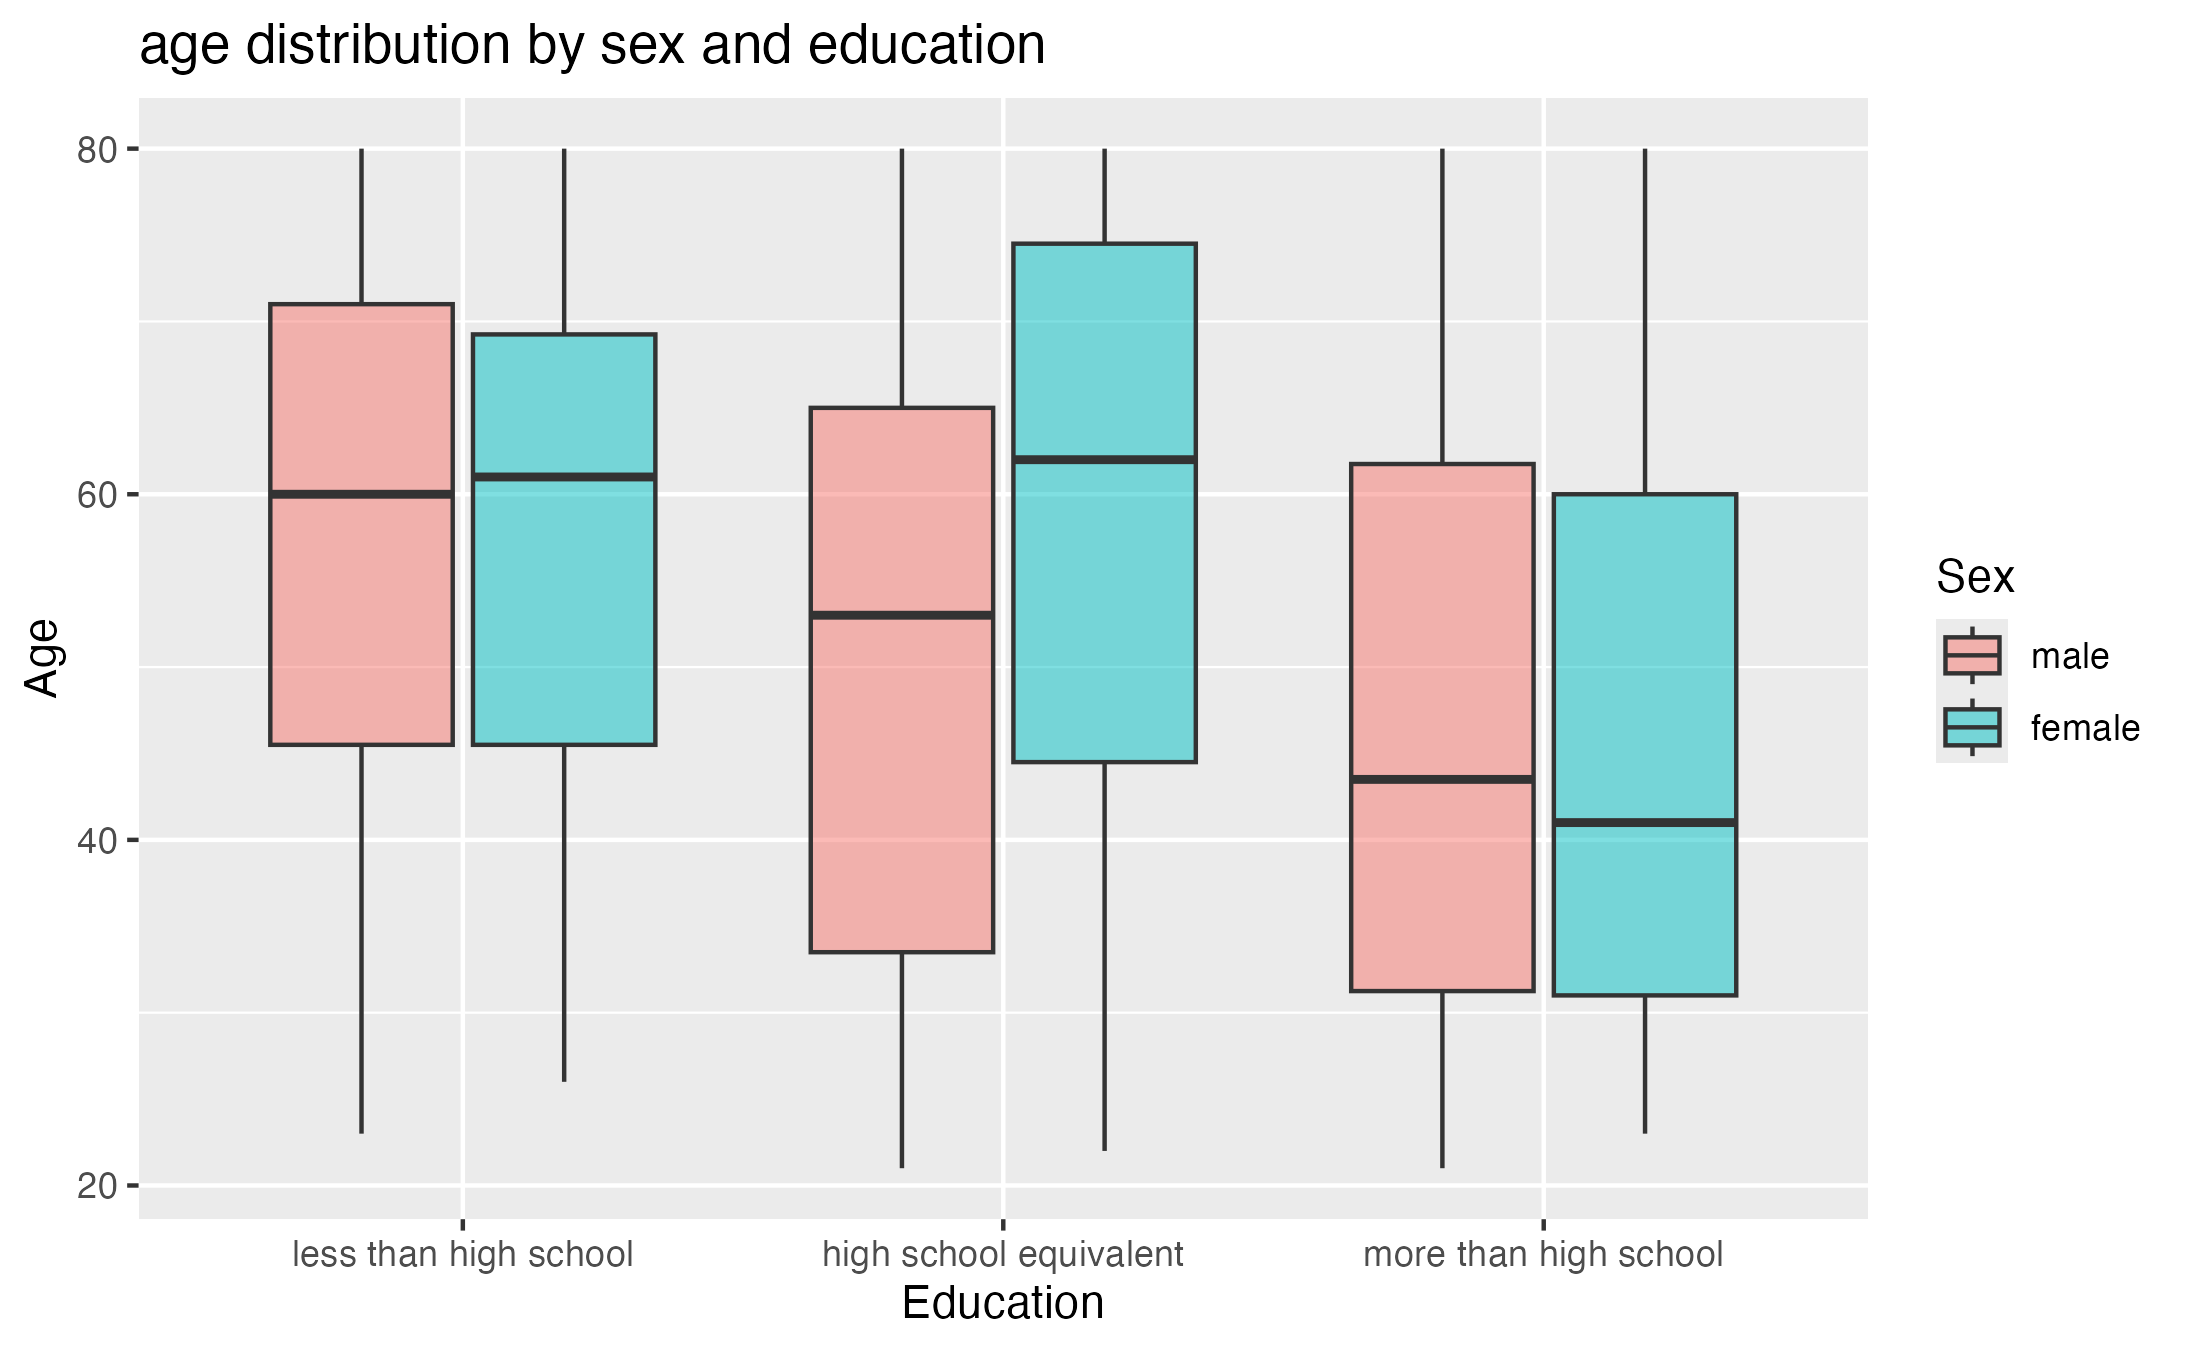
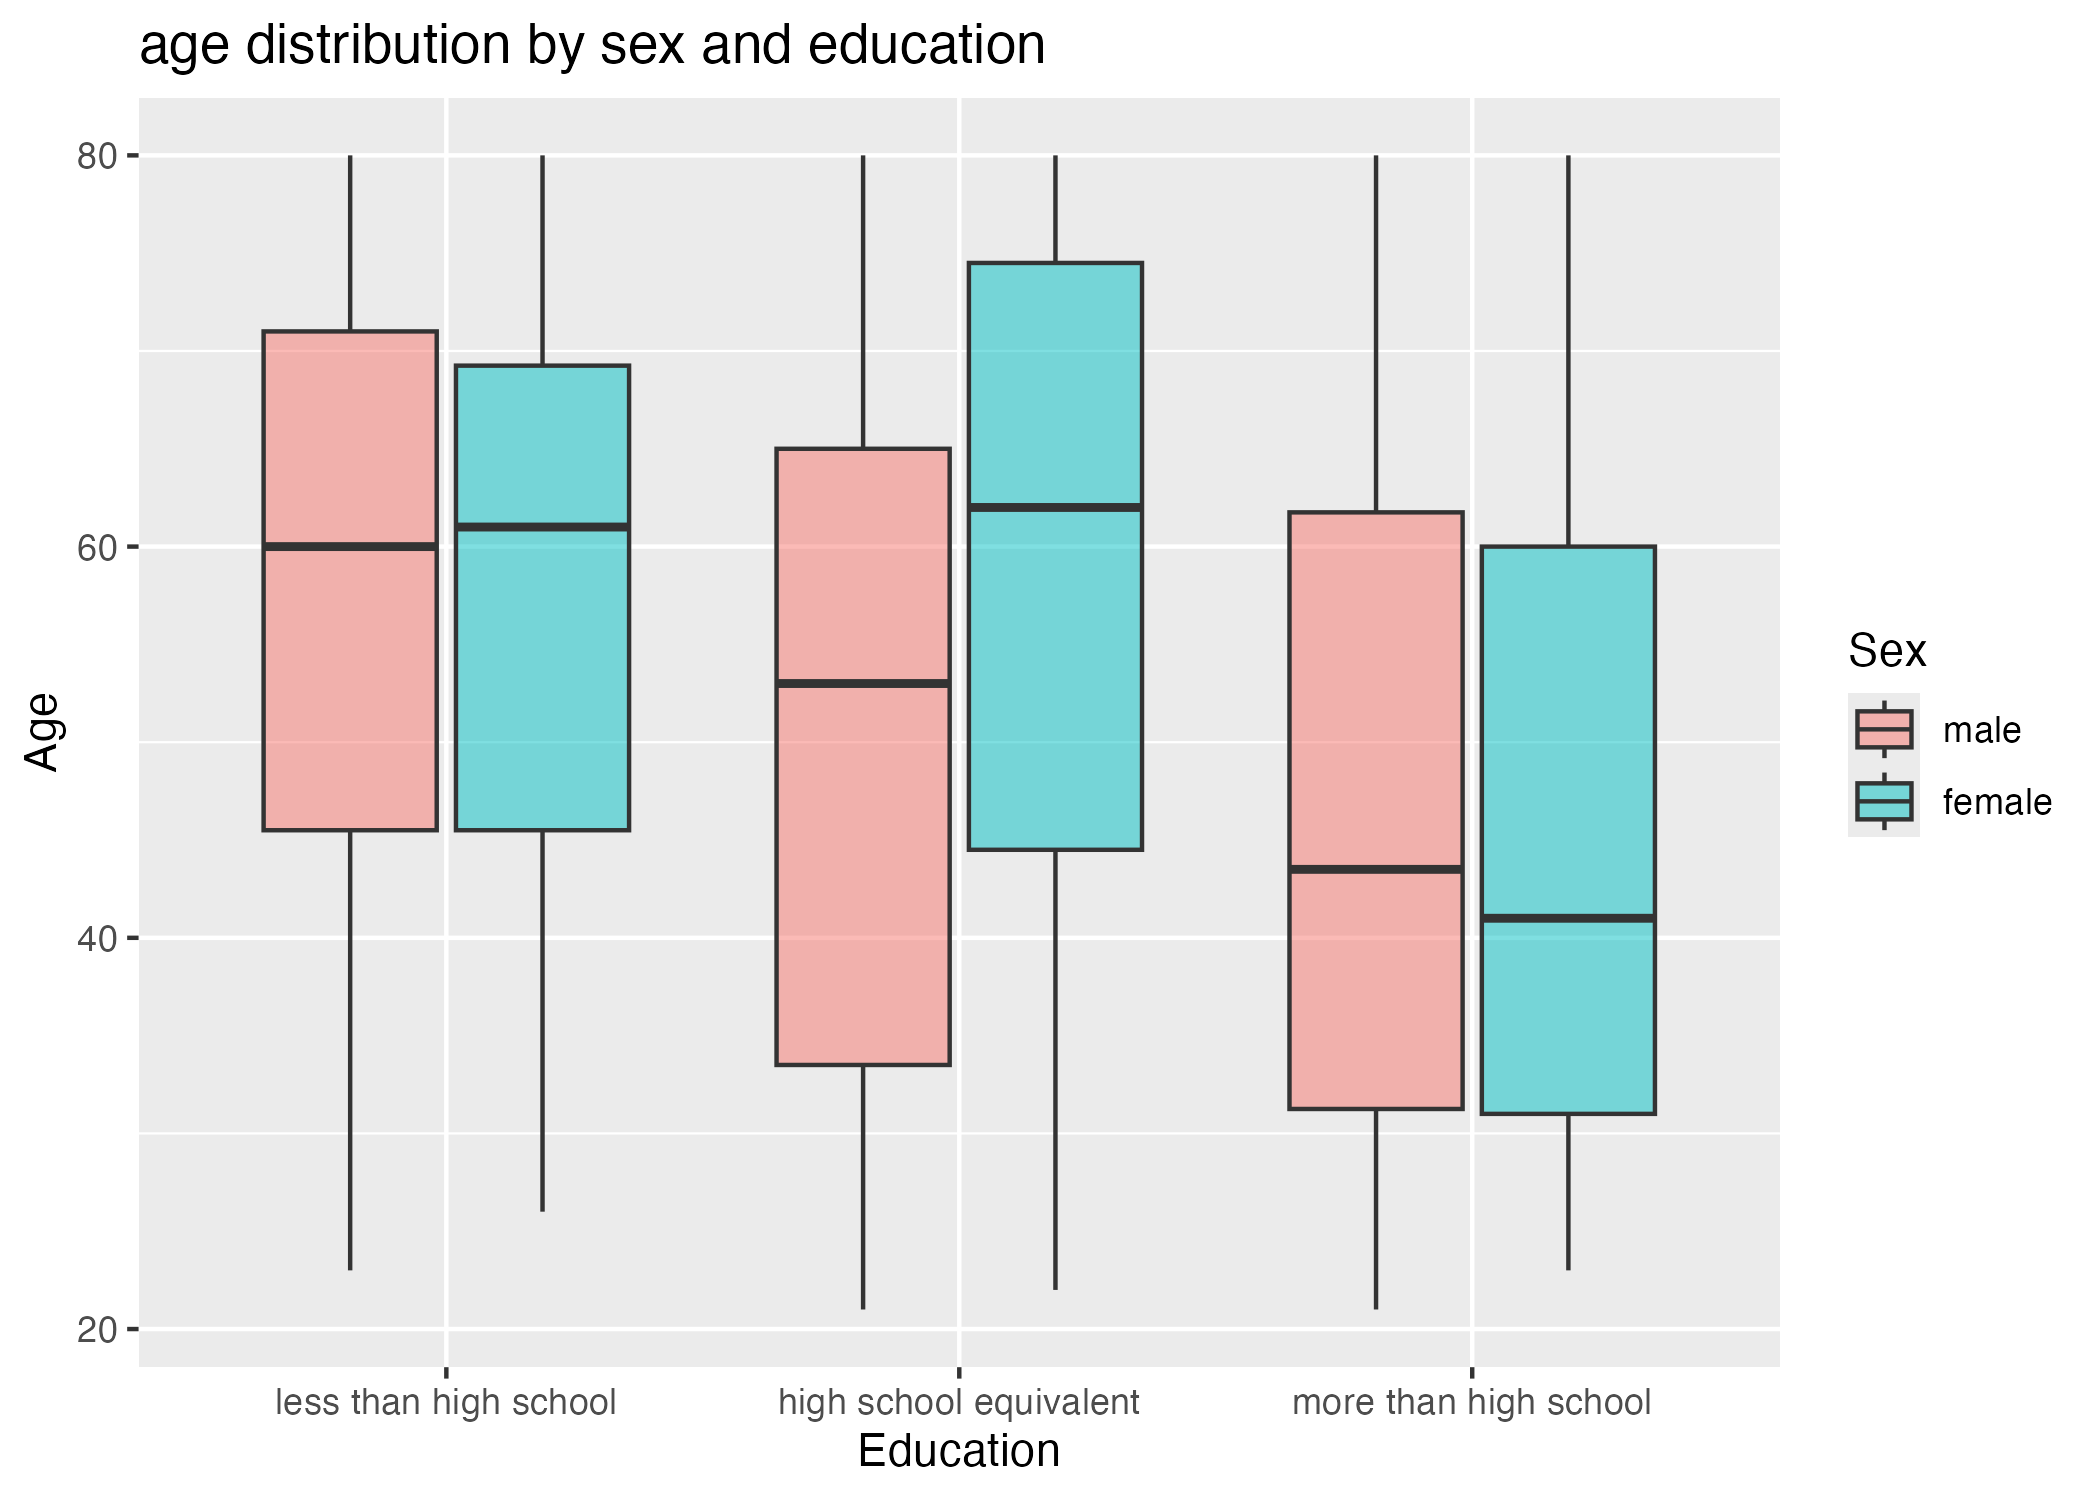
final commit

diff --git a/p8105_hw3_tc3524.md b/p8105_hw3_tc3524.md
@@ -158,6 +158,12 @@ clean_noaa2 |>
     ##  $ x    : chr "Years"
     ##  $ y    : chr "Mean Max Temp"
 
+``` r
+  ggsave("hw3_q2_scatterplot.png")
+```
+
+    ## Saving 7 x 5 in image
+
 We could see that in Janaury it is colder than it is in July. This make
 sense because January is still in Winter so the temperature would be
 lower. There is more of a range of temperature in January vs July. There
@@ -178,7 +184,14 @@ noaa_maxmin =
     fill = "Count"
   ) +
   viridis::scale_color_viridis(discrete = TRUE)
+  ggsave("hw3_q2_tmaxvtmin.png")
+```
 
+    ## Saving 7 x 5 in image
+    ## Ignoring unknown labels:
+    ## • Title : "Tmax vs Tmin"
+
+``` r
 noaa_maxmin
 ```
 
@@ -194,7 +207,13 @@ dist_snowfall =
   mutate(year = factor (year)) |>
   ggplot(aes( x = snow, y = year)) +
   geom_density_ridges(scale = 0.85)
+  ggsave("hw3_q2_snowfall.png")
+```
 
+    ## Saving 7 x 5 in image
+    ## Picking joint bandwidth of 3.76
+
+``` r
 dist_snowfall
 ```
 
@@ -302,6 +321,12 @@ combined |>
 
 ![](p8105_hw3_tc3524_files/figure-gfm/unnamed-chunk-14-1.png)<!-- -->
 
+``` r
+  ggsave("hw3_q2_age_distribution_bysex_education.png")
+```
+
+    ## Saving 7 x 5 in image
+
 The range for less than high school education are about the same across
 sex, the median is also about the same across sex strata. In high school
 equivalent there is a little more variance in range as male have a lower
@@ -324,11 +349,16 @@ combined |>
     x = "age",
     y = "Total Activity",
     color = "sex"
-    
   )
 ```
 
 ![](p8105_hw3_tc3524_files/figure-gfm/unnamed-chunk-15-1.png)<!-- -->
+
+``` r
+  ggsave("hw3_q2_totalactivty_vs_age.png")
+```
+
+    ## Saving 7 x 5 in image
 
 Across the education grids, we can see that as age increases, total
 activity decreases in both male and female. In both high school
@@ -375,9 +405,173 @@ combined2 |>
     ##  $ colour: chr "sex"
     ##  $ title : chr "24 hour activity by education and sex"
 
+``` r
+  ggsave("hw3_q2_activity_by_educationandsex.png")
+```
+
+    ## Saving 7 x 5 in image
+    ## `geom_smooth()` using method = 'gam' and formula = 'y ~ s(x, bs = "cs")'
+
 The MIMs are at its lowest across the strata of education around hour 4
 (4am), and it is at highest around hour 12 across the three educations.
 There is another peak other than hour 12 in more than high school
 education at hour 18.
 
 \#Problem 3
+
+``` r
+Jan2020 = 
+  read_csv("data/citibike/Jan 2020 Citi.csv") |>
+  mutate ( year = 2020, month = "January")
+```
+
+    ## Rows: 12420 Columns: 7
+    ## ── Column specification ────────────────────────────────────────────────────────
+    ## Delimiter: ","
+    ## chr (6): ride_id, rideable_type, weekdays, start_station_name, end_station_n...
+    ## dbl (1): duration
+    ## 
+    ## ℹ Use `spec()` to retrieve the full column specification for this data.
+    ## ℹ Specify the column types or set `show_col_types = FALSE` to quiet this message.
+
+``` r
+July2020 = 
+  read_csv("data/citibike/July 2020 Citi.csv") |>
+  mutate ( year = 2020, month = "July")
+```
+
+    ## Rows: 21048 Columns: 7
+    ## ── Column specification ────────────────────────────────────────────────────────
+    ## Delimiter: ","
+    ## chr (6): ride_id, rideable_type, weekdays, start_station_name, end_station_n...
+    ## dbl (1): duration
+    ## 
+    ## ℹ Use `spec()` to retrieve the full column specification for this data.
+    ## ℹ Specify the column types or set `show_col_types = FALSE` to quiet this message.
+
+``` r
+Jan2024 = 
+  read_csv("data/citibike/Jan 2024 Citi.csv") |>
+  mutate ( year = 2024, month = "January")
+```
+
+    ## Rows: 18861 Columns: 7
+    ## ── Column specification ────────────────────────────────────────────────────────
+    ## Delimiter: ","
+    ## chr (6): ride_id, rideable_type, weekdays, start_station_name, end_station_n...
+    ## dbl (1): duration
+    ## 
+    ## ℹ Use `spec()` to retrieve the full column specification for this data.
+    ## ℹ Specify the column types or set `show_col_types = FALSE` to quiet this message.
+
+``` r
+July2024 = 
+  read_csv("data/citibike/July 2024 Citi.csv") |>
+  mutate ( year = 2024, month = "July")
+```
+
+    ## Rows: 47156 Columns: 7
+    ## ── Column specification ────────────────────────────────────────────────────────
+    ## Delimiter: ","
+    ## chr (6): ride_id, rideable_type, weekdays, start_station_name, end_station_n...
+    ## dbl (1): duration
+    ## 
+    ## ℹ Use `spec()` to retrieve the full column specification for this data.
+    ## ℹ Specify the column types or set `show_col_types = FALSE` to quiet this message.
+
+``` r
+citibike = 
+  bind_rows(Jan2020, July2020, Jan2024, July2024) |>
+  janitor::clean_names() |>
+  mutate(
+    month = factor(month, levels = c("January", "July")),
+    rideable_type = factor (rideable_type),
+    member_casual = factor (member_casual, levels = c("member", "casual")),
+    weekdays = factor (weekdays, levels = c("Monday", "Tuesday", "Wednesday", "Thursday", "Friday", "Saturday", "Sunday"))
+        )
+```
+
+The final combined data set have 99485 observation with 9 variables.
+
+``` r
+citibike |>
+  count(year, month, member_casual) |>
+  pivot_wider(names_from = member_casual, values_from = n, values_fill = 0) |>
+  mutate(total = member + casual) |>
+  knitr::kable(digits = 3)
+```
+
+| year | month   | member | casual | total |
+|-----:|:--------|-------:|-------:|------:|
+| 2020 | January |  11436 |    984 | 12420 |
+| 2020 | July    |  15411 |   5637 | 21048 |
+| 2024 | January |  16753 |   2108 | 18861 |
+| 2024 | July    |  36262 |  10894 | 47156 |
+
+There are more members than causal citibike riders across all years and
+months. In January 2020, there are about 11k members and only 1k casual
+bike riders. In 2020 July, we have about 15k members and 5.6k causal
+bike riders. In 2024 January, we have about 16k members and 2k casual
+bike rider. Lastly, in 2024 July, there was a huge increase of members
+at 36k with 11k casual bike riders.
+
+``` r
+citibike |>
+  filter(year == 2024, month == "July", !is.na(start_station_name)) |>
+  count(start_station_name, sort = TRUE) |>
+  slice_head( n = 5 ) |>
+  knitr::kable()
+```
+
+| start_station_name       |   n |
+|:-------------------------|----:|
+| Pier 61 at Chelsea Piers | 163 |
+| University Pl & E 14 St  | 155 |
+| W 21 St & 6 Ave          | 152 |
+| West St & Chambers St    | 150 |
+| W 31 St & 7 Ave          | 146 |
+
+``` r
+citibike |>
+  group_by(year, month, weekdays) |>
+  mutate (year = factor (year)) |>
+  summarize(median_duration = median(duration, na.rm = TRUE), .groups = "drop") |>
+  ggplot(aes(x = weekdays, y = median_duration, color = year, group = year)) +
+  geom_point(alpha = 0.8, size = 1.5) +
+  facet_grid( ~ month ) +
+  labs (
+    title = "median ride duration by week, month, year",
+    x = "weekdays",
+    y = "median duration",
+    color = "year"
+        )
+```
+
+![](p8105_hw3_tc3524_files/figure-gfm/unnamed-chunk-20-1.png)<!-- -->
+
+People spend less time riding bikes in January in both 2020 and 2024
+compared to July. People spent more time riding bikes in 2020 in general
+compared to 2024. In July 2020, people ride bikes for longer duration
+compared to the rest of the time frame.
+
+``` r
+citibike |>
+  filter(year == 2024) |>
+  ggplot(aes( x = member_casual, y = duration, fill = rideable_type)) +
+  geom_boxplot(alpha = 0.5) +
+  facet_grid( ~ month) +
+  labs(
+    title = "Ride duration by membership status in 2024",
+    x = "rider type",
+    y = "duration",
+    fill = "bike type"
+  )
+```
+
+![](p8105_hw3_tc3524_files/figure-gfm/unnamed-chunk-21-1.png)<!-- -->
+
+Ride duration for all month and years stratum is right skewed. The
+median of bike duration is short around only 7 - 10 minutes for all
+groups, but sometimes it can go up to 250 minutes ( around 4 hours ).
+Casual members are more likely to have longer rides than members on both
+the classic bike and electric bikes.
